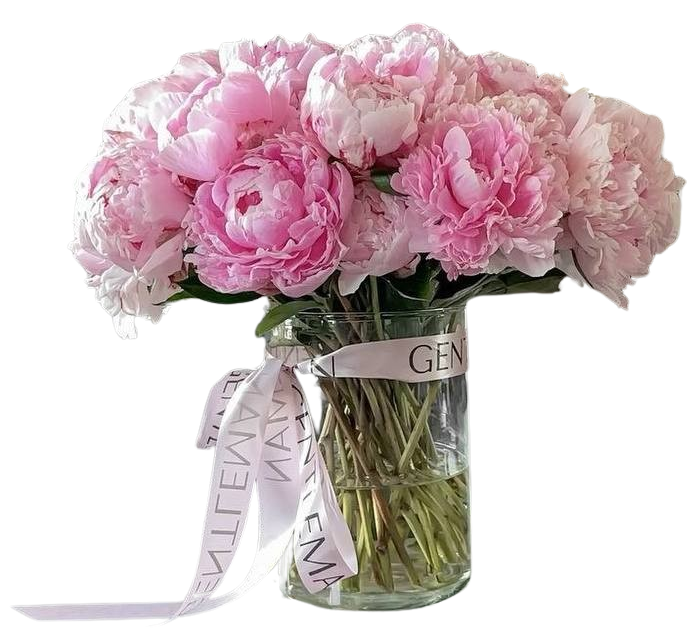
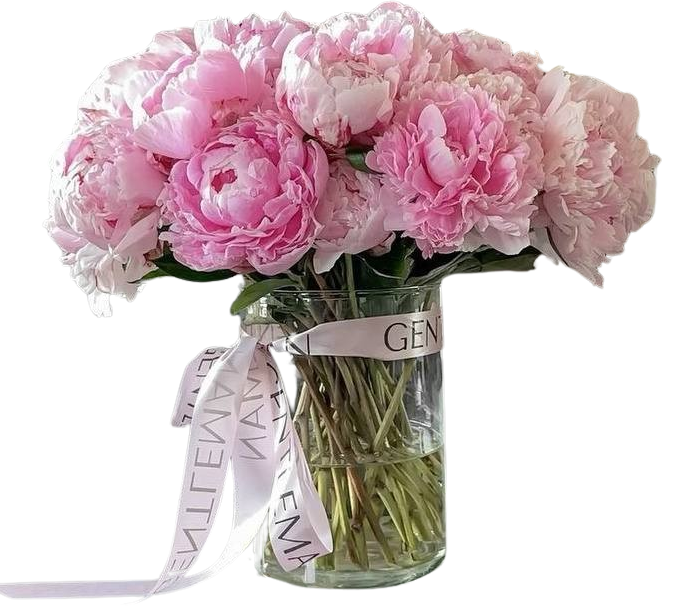
Main Page + flower changing

diff --git a/style.css b/style.css
@@ -1,71 +1,101 @@
 body {
-  font-family: 'Playfair Display', serif;
-  margin: 0;
-  margin-top: 8vh; 
+    font-family: 'Playfair Display', serif;
+    margin: 0;
+    margin-top: 5vh;
 }
 
 header {
-  position: fixed;
-  top: 0;
-  left: 0;
-  width: 100%;
-  background: rgba(255, 253, 248, 0.3); 
-  backdrop-filter: blur(2px);
-  z-index: 1000;
-  display: flex;
-  align-items: center;
-  height: fit-content;
-  justify-content: space-between;
-  padding: 15px 0;
-  box-sizing: border-box;
+    position: fixed;
+    height: 5vh;
+    top: 0;
+    left: 0;
+    width: 100%;
+    background: rgba(255, 253, 248, 0.079);
+    backdrop-filter: blur(2px);
+    z-index: 1000;
+    display: flex;
+    align-items: center;
+    justify-content: space-between;
+    padding: 15px 0;
+    box-sizing: border-box;
+    color: bisque;
 }
 
 .logo img {
-  width: 110px;
-  margin-left: 8vh;
+    width: 110px;
+    margin-left: 8vh;
 }
 
 header nav {
-  margin-right: 8vh;
-  cursor: pointer;
+    margin-right: 8vh;
+    cursor: pointer;
 }
 
 header nav ul {
-  list-style-type: none;
-  display: flex;
-  justify-content: space-evenly;
-  gap: 30px;
-  font-size: 18px;
-  text-decoration: underline;
+    list-style-type: none;
+    display: flex;
+    justify-content: space-evenly;
+    gap: 30px;
+    font-size: 18px;
+    text-decoration: underline;
 }
 
 .page-background {
-  height: 100vh;
-  background-image:
-    linear-gradient(rgba(0, 0, 0, 0.650), rgba(0, 0, 0, 0.650)),
-    url('imgs/flowershopbackground.jpg');
-  background-size: cover;
-  background-position: center;
-  background-repeat: no-repeat;
-  display: flex; 
+    height: 100vh;
+    background-image:
+        linear-gradient(rgba(0, 0, 0, 0.650), rgba(0, 0, 0, 0.650)),
+        url('imgs/flowershopbackground.jpg');
+    background-size: cover;
+    background-position: center;
+    background-repeat: no-repeat;
+    display: flex;
 }
 
- h1{
+h1 {
     font-size: 60px;
     color: bisque;
-  }
- h2{
+}
+
+h2 {
     font-size: 25px;
     color: bisque;
-  }
-
-  .text-main{
-    margin-top: 40vh;
-    margin-left: 20vh;
-  }
-
-  .imgPeonies-main{
-    margin-top: 20vh;
-  }
+}
 
 
+.imgPeonies-main {
+  margin-left: 25vh;
+  margin-top: 25vh;
+}
+
+.text-content{
+  margin-top: 35vh;
+  margin-left: 25vh;
+}
+
+.imgPeonies-main {
+  height: 50vh;
+  width: 55vh;
+  margin-left: 20px; 
+  margin-right: 20px;
+  transition: opacity 0.5s ease-in-out, transform 0.5s ease-in-out;
+}
+
+#nextBouquetBtn {
+    background-color: rgba(255, 253, 248, 0.2); 
+    color: bisque;
+    border: 1px solid bisque;
+    padding: 12px 40px;
+    font-size: 18px;
+    cursor: pointer;
+    border-radius: 8px;
+    transition: background-color 0.3s ease, color 0.3s ease, transform 0.2s ease;
+    margin-top: 30px; 
+    font-family: 'Playfair Display', serif; 
+    backdrop-filter: blur(5px); 
+}
+
+#nextBouquetBtn:hover {
+    background-color: bisque; 
+    color: #333; 
+    transform: translateY(-3px); 
+}

diff --git a/code.js b/code.js
@@ -1,0 +1,45 @@
+// 1. Отримуємо посилання на елементи HTML
+const bouquetImage = document.getElementById('bouquetImage');
+const nextBouquetBtn = document.getElementById('nextBouquetBtn');
+
+// 2. Створюємо масив з шляхами до всіх букетів
+// !!! ВАЖЛИВО: Заміни 'imgs/peonies.png' та інші на РЕАЛЬНІ шляхи до твоїх зображень
+// Переконайся, що 'imgs/pinkP.png' - це дійсно шлях до твоїх півоній.
+const bouquetSources = [
+    'imgs/pinkP.png', 
+    'imgs/photo_2025-06-01_17-05-06-removebg-preview.png',
+    'imgs/avasflowers-white-lily-bouquet-farm-fresh-15-blooms-with-vase-15481-removebg-preview.png',
+    'imgs/photo_2025-06-01_17-07-02-removebg-preview.png',
+    'imgs/photo_2025-06-01_17-07-04-removebg-preview.png'
+];
+
+// 3. Змінна для відстеження поточного букета
+let currentBouquetIndex = 0; // Починаємо з першого букета (півонії)
+
+// 4. Функція, яка буде виконуватися при натисканні кнопки
+function showNextBouquet() {
+    // Збільшуємо індекс для переходу до наступного букета
+    currentBouquetIndex++;
+
+    // Якщо індекс вийшов за межі масиву, повертаємо його до 0 (півонії)
+    if (currentBouquetIndex >= bouquetSources.length) {
+        currentBouquetIndex = 0;
+    }
+
+    // Додаємо плавний перехід (тимчасово робимо прозорим, потім змінюємо src і повертаємо видимість)
+    bouquetImage.style.opacity = '0';
+    bouquetImage.style.transform = 'scale(0.95)'; // Трохи зменшуємо для ефекту
+
+    setTimeout(() => {
+        bouquetImage.src = bouquetSources[currentBouquetIndex];
+        bouquetImage.style.opacity = '1';
+        bouquetImage.style.transform = 'scale(1)';
+    }, 300); // Час має відповідати transition в CSS
+}
+
+// 5. Прив'язуємо функцію до кнопки
+nextBouquetBtn.addEventListener('click', showNextBouquet);
+
+// Опціонально: переконуємося, що початковий букет відображається при завантаженні сторінки.
+// Хоча він вже вказаний в HTML, це може бути корисно, якщо ви захочете змінити його динамічно.
+bouquetImage.src = bouquetSources[currentBouquetIndex];

diff --git a/index.html b/index.html
@@ -1,37 +1,37 @@
 <!DOCTYPE html>
 <html lang="en">
 <head>
-  <meta charset="UTF-8">
-  <meta name="viewport" content="width=device-width, initial-scale=1.0">
-  <title>Flower Shop</title>
-  <link rel="stylesheet" href="style.css">
-  <link href="https://fonts.googleapis.com/css2?family=Playfair+Display:wght@400;700&display=swap" rel="stylesheet">
+    <meta charset="UTF-8">
+    <meta name="viewport" content="width=device-width, initial-scale=1.0">
+    <title>Flower Shop</title>
+    <link rel="stylesheet" href="style.css">
+    <link href="https://fonts.googleapis.com/css2?family=Playfair+Display:wght@400;700&display=swap" rel="stylesheet">
 </head>
 <body>
-  <header>
-  <div class="logo">
-    <img src="imgs/logo.png" alt="Flower Shop Logo">
-  </div>
-  <nav>
-    <ul>
-      <li>About Us</li>
-      <li>Social Media</li>
-      <li>Contact Info</li>
-      <li>Language</li>
-      <li>Cart</li>
-    </ul>
-  </nav>
-</header>
-  <main>
-    <section class="page-background">
-        <div class="text-main">
-          <h1>Petalia</h1>
-           <h2>-Where every petal tells a story.</h2>
+    <header>
+        <div class="logo">
+            <img src="imgs/logo.png" alt="Flower Shop Logo">
         </div>
-        <div><img class="imgPeonies-main" src="imgs/pinkP.png" alt="Peonies"></div>
-    </section>
-  </main>
+        <nav>
+            <ul>
+                <li>About Us</li>
+                <li>Social Media</li>
+                <li>Contact Info</li>
+                <li>Language</li>
+                <li>Cart</li>
+            </ul>
+        </nav>
+    </header>
+    <main>
+        <section class="page-background">
+            <div class="text-content"> <h1>Petalia</h1>
+                <h2>-Where every petal tells a story.</h2>
+                <button id="nextBouquetBtn">Mix</button> 
+            </div>
+            <div><img id="bouquetImage" class="imgPeonies-main" src="imgs/pinkP.png" alt="Peonies"></div>
+        </section>
+    </main>
 
-  <script src="code.js"></script>
+    <script src="code.js"></script>
 </body>
 </html>
